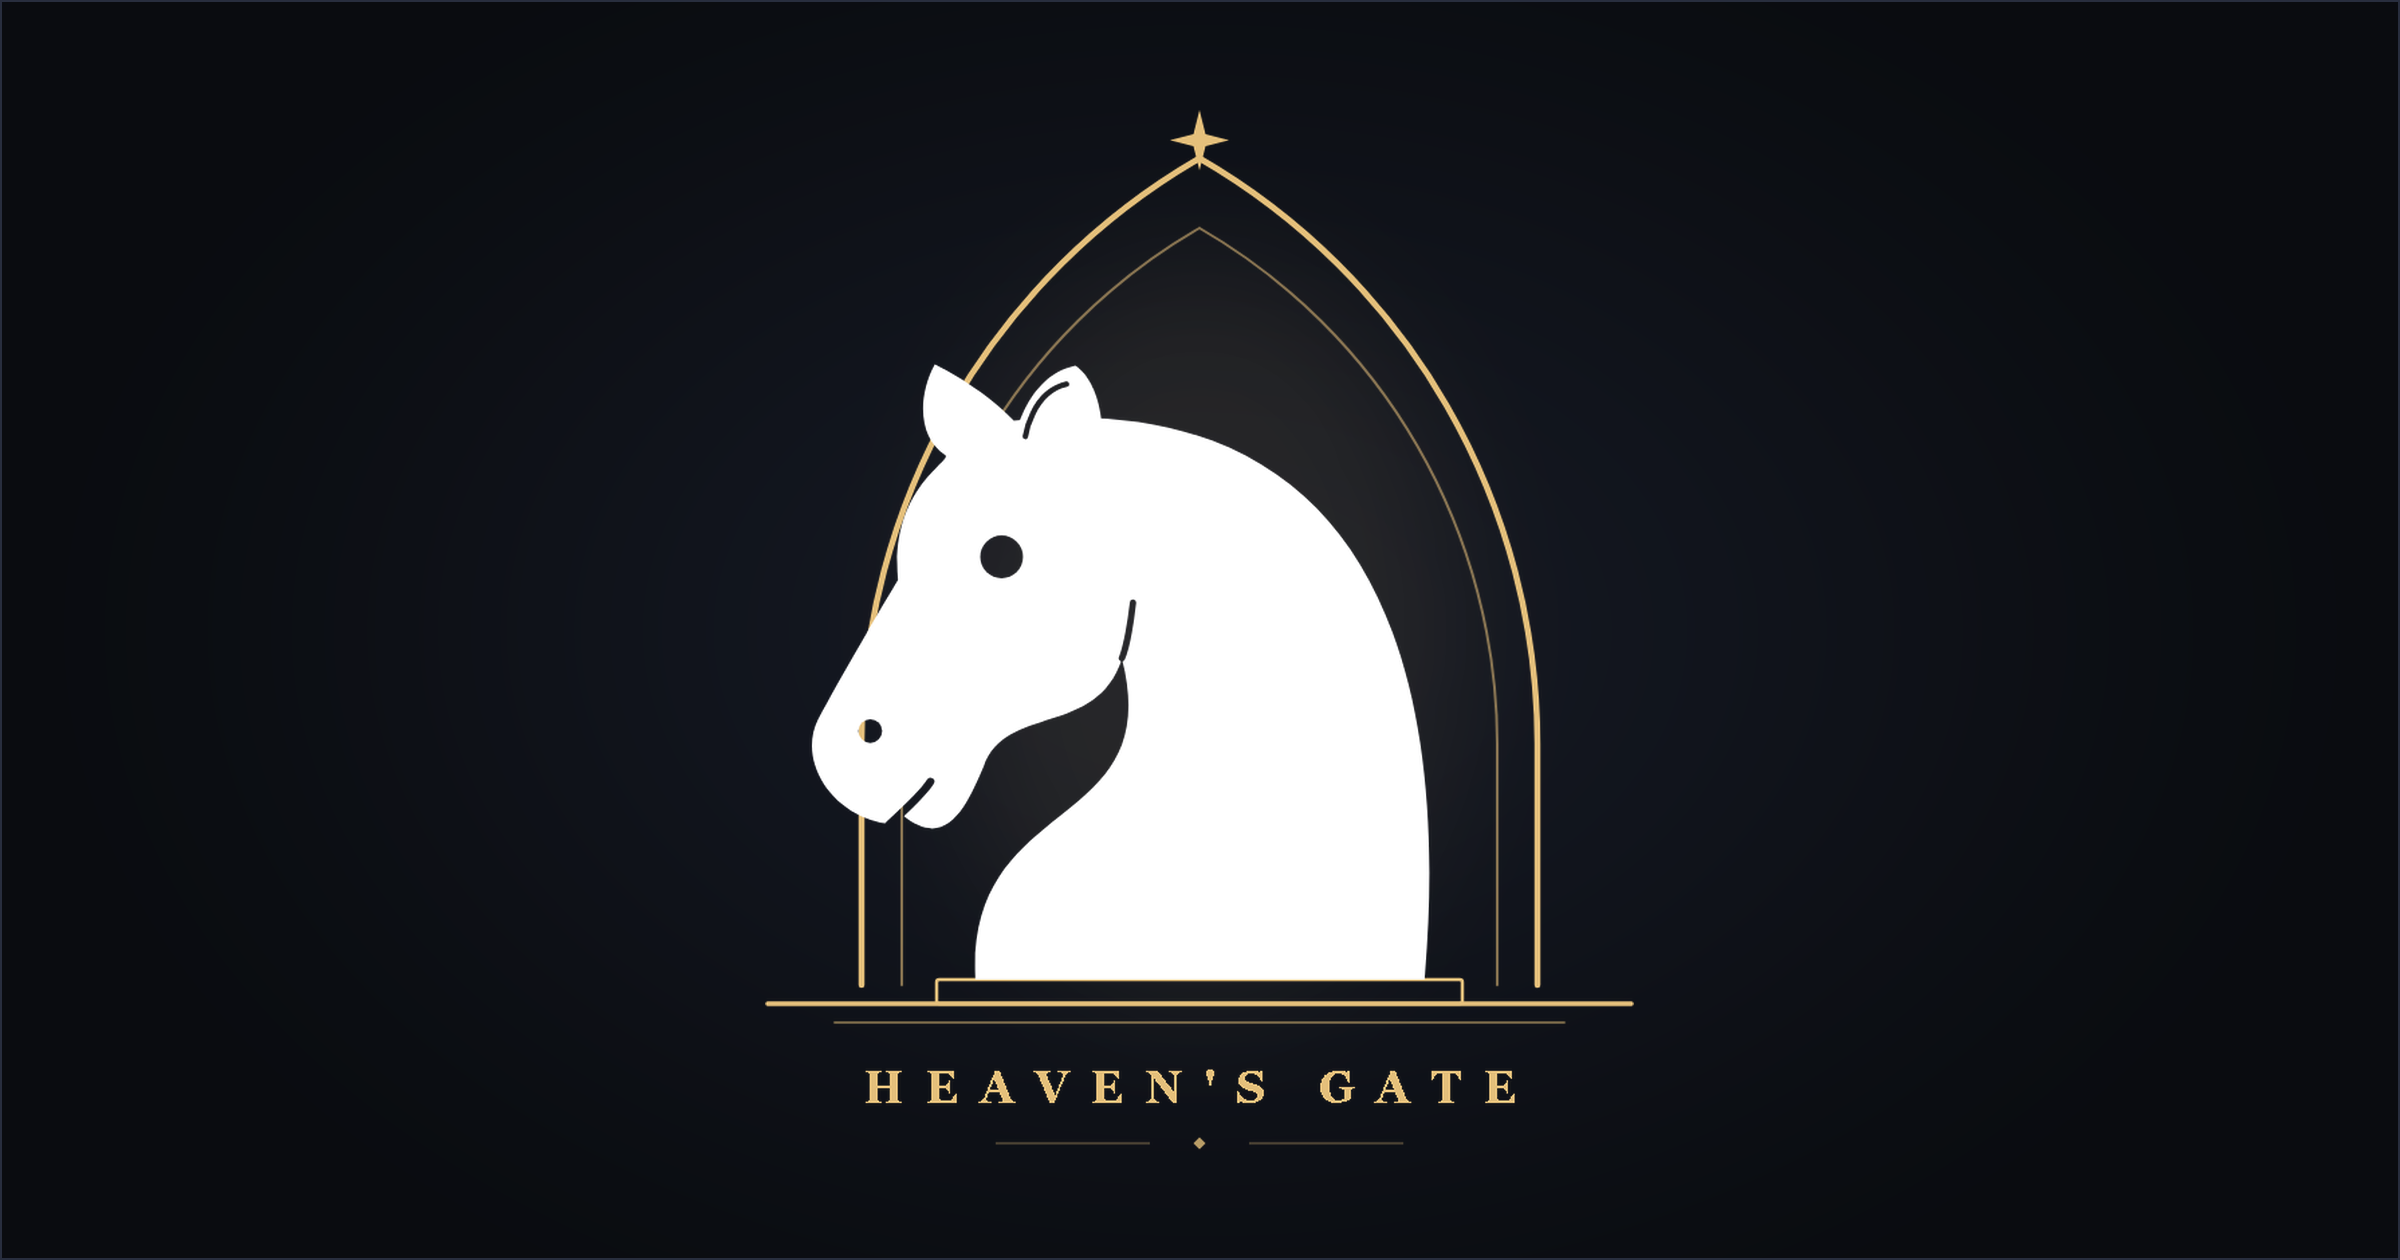
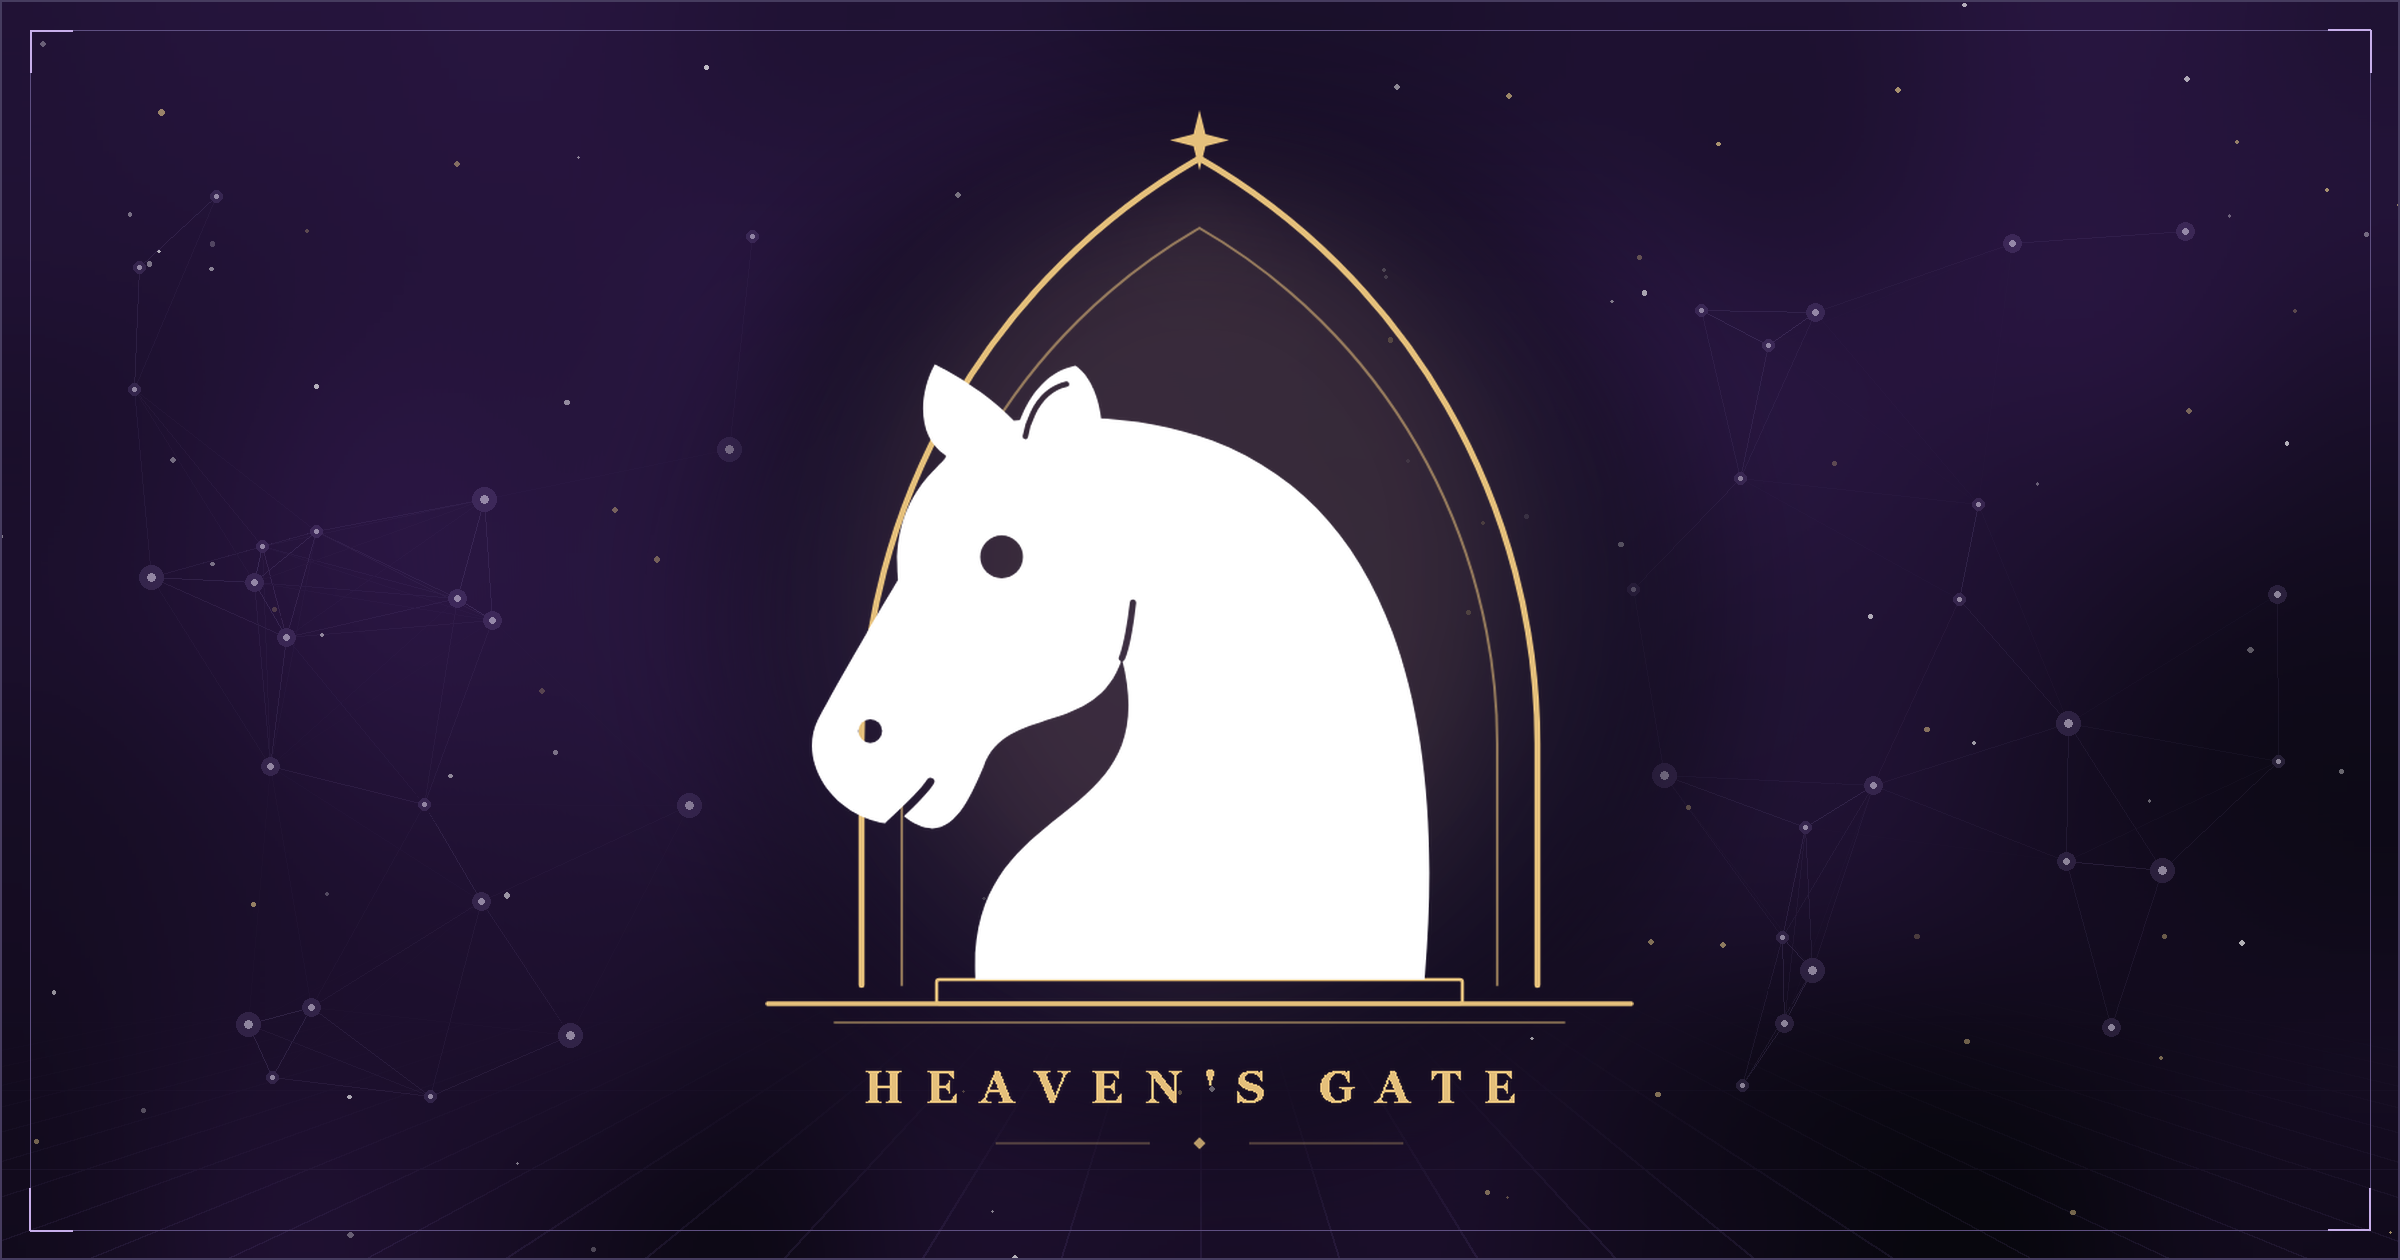
style(projects): spice up heavens gate cover with celestial chess and spectral graph backdrop

diff --git a/scripts/generate_spiced_heavens_gate.py b/scripts/generate_spiced_heavens_gate.py
@@ -1,0 +1,188 @@
+import numpy as np
+from PIL import Image, ImageDraw, ImageFilter
+from scipy.ndimage import gaussian_filter
+
+W, H = 2400, 1260
+
+# 1. Base Gradient: Deep cosmic indigo to midnight obsidian
+y, x = np.mgrid[0:H, 0:W]
+arr = np.zeros((H, W, 3), dtype=np.float32)
+
+# Deep space colors matching the site's nebula palette
+# Top: deep cosmic violet/indigo
+top_color = np.array([16, 12, 28], dtype=np.float32)
+# Bottom: deep space charcoal
+bottom_color = np.array([8, 7, 14], dtype=np.float32)
+# Center glow: warm celestial violet
+center_glow = np.array([45, 30, 70], dtype=np.float32)
+
+for c in range(3):
+    arr[:, :, c] = top_color[c] * (1.0 - y / H) + bottom_color[c] * (y / H)
+
+cx, cy = W / 2.0, H / 2.0
+r_center = np.sqrt(((x - cx) / (W * 0.42))**2 + ((y - cy) / (H * 0.52))**2)
+nebula_mask = np.clip(1.0 - r_center, 0.0, 1.0) ** 1.8
+
+# Left & Right cosmic dust clouds
+np.random.seed(42)
+noise = np.random.randn(H // 25, W // 25)
+noise = gaussian_filter(noise, sigma=5)
+noise = (noise - noise.min()) / (noise.max() - noise.min())
+noise_img = Image.fromarray((noise * 255).astype(np.uint8)).resize((W, H), Image.Resampling.BICUBIC)
+noise_arr = np.array(noise_img).astype(np.float32) / 255.0
+
+# Soft clouds (violet-magenta, deep cyan, cosmic purple)
+cloud_tint = np.zeros((H, W, 3), dtype=np.float32)
+cloud_tint[:, :, 0] = noise_arr * 40  # Red/magenta
+cloud_tint[:, :, 1] = noise_arr * 16  # Green
+cloud_tint[:, :, 2] = noise_arr * 60  # Blue
+
+arr += cloud_tint * 0.7
+for c in range(3):
+    arr[:, :, c] += center_glow[c] * nebula_mask * 0.65
+
+arr = np.clip(arr, 0, 255).astype(np.uint8)
+base_img = Image.fromarray(arr).convert('RGBA')
+
+# 2. Add perspective chessboard grid on the floor (subtle & elegant)
+floor_overlay = Image.new('RGBA', (W, H), (0, 0, 0, 0))
+floor_draw = ImageDraw.Draw(floor_overlay)
+horizon_y = H * 0.64
+floor_lines = 16
+vp_x = W * 0.5
+
+# Draw receding perspective lines
+for i in range(-floor_lines, floor_lines + 1):
+    bottom_x = vp_x + i * (W * 0.058)
+    floor_draw.line([(vp_x, horizon_y), (bottom_x, H)], fill=(140, 115, 200, 30), width=2)
+
+# Horizontal lines with exponential distance
+for d in np.linspace(0.08, 1.0, 11):
+    cur_y = horizon_y + (H - horizon_y) * (d ** 2.3)
+    alpha = int(45 * d)
+    floor_draw.line([(0, cur_y), (W, cur_y)], fill=(150, 125, 210, alpha), width=1)
+
+# Mask floor to only bottom third and softly fade at horizon
+floor_arr = np.array(floor_overlay)
+fade = np.clip((y - horizon_y) / (H - horizon_y), 0, 1) ** 1.6
+for c in range(4):
+    floor_arr[:, :, c] = (floor_arr[:, :, c] * fade).astype(np.uint8)
+
+floor_faded = Image.fromarray(floor_arr)
+base_img = Image.alpha_composite(base_img, floor_faded)
+
+# 3. Spectral Tropical Graph: Constellation network on left and right wings
+graph_overlay = Image.new('RGBA', (W, H), (0, 0, 0, 0))
+graph_draw = ImageDraw.Draw(graph_overlay)
+
+np.random.seed(2026)
+pts = []
+# Generate points on left wing
+for _ in range(22):
+    px = np.random.uniform(W * 0.05, W * 0.32)
+    py = np.random.uniform(H * 0.12, H * 0.88)
+    pts.append((px, py))
+
+# Generate points on right wing
+for _ in range(22):
+    px = np.random.uniform(W * 0.68, W * 0.95)
+    py = np.random.uniform(H * 0.12, H * 0.88)
+    pts.append((px, py))
+
+# Connect nearby points in each cluster
+for i, p1 in enumerate(pts):
+    for j, p2 in enumerate(pts):
+        if i < j:
+            d = np.hypot(p1[0] - p2[0], p1[1] - p2[1])
+            if d < 280:
+                edge_alpha = int(45 * (1.0 - d / 280))
+                # Slight golden-violet tint for spectral graph edges
+                graph_draw.line([p1, p2], fill=(175, 155, 225, edge_alpha), width=1)
+
+# Draw glowing graph nodes
+for px, py in pts:
+    r = np.random.choice([2, 3, 4])
+    glow_r = r * 3
+    graph_draw.ellipse([px - glow_r, py - glow_r, px + glow_r, py + glow_r], fill=(190, 160, 245, 35))
+    graph_draw.ellipse([px - r, py - r, px + r, py + r], fill=(240, 230, 255, 140))
+
+base_img = Image.alpha_composite(base_img, graph_overlay)
+
+# 4. Volumetric Starlight Rays from the Apex Star
+rays_overlay = Image.new('RGBA', (W, H), (0, 0, 0, 0))
+rays_draw = ImageDraw.Draw(rays_overlay)
+apex_x, apex_y = W / 2.0, H * 0.14
+
+for angle_deg in np.linspace(-65, 65, 29):
+    rad = np.radians(angle_deg + 90)
+    ray_len = 1150
+    end_x = apex_x + ray_len * np.cos(rad)
+    end_y = apex_y + ray_len * np.sin(rad)
+    ray_alpha = int(18 * np.cos(np.radians(angle_deg * 1.2)))
+    rays_draw.line([(apex_x, apex_y), (end_x, end_y)], fill=(235, 205, 145, ray_alpha), width=7)
+
+rays_overlay = rays_overlay.filter(ImageFilter.GaussianBlur(radius=16))
+base_img = Image.alpha_composite(base_img, rays_overlay)
+
+# 5. Stardust and Sparkles (cosmic particles)
+stars_overlay = Image.new('RGBA', (W, H), (0, 0, 0, 0))
+stars_draw = ImageDraw.Draw(stars_overlay)
+for _ in range(90):
+    sx = np.random.uniform(0, W)
+    sy = np.random.uniform(0, H)
+    sr = np.random.uniform(1.0, 2.8)
+    s_alpha = np.random.randint(50, 190)
+    color = (255, 255, 255, s_alpha) if np.random.rand() > 0.35 else (238, 210, 140, s_alpha)
+    stars_draw.ellipse([sx - sr, sy - sr, sx + sr, sy + sr], fill=color)
+
+base_img = Image.alpha_composite(base_img, stars_overlay)
+
+# 6. Logo Backdrop Halo for crisp contrast
+halo = Image.new('RGBA', (W, H), (0, 0, 0, 0))
+halo_draw = ImageDraw.Draw(halo)
+halo_draw.ellipse([cx - 480, cy - 500, cx + 480, cy + 470], fill=(22, 17, 36, 170))
+halo = halo.filter(ImageFilter.GaussianBlur(radius=65))
+base_img = Image.alpha_composite(base_img, halo)
+
+# 7. Crop & Scale the Original Clean Logo
+orig = Image.open('src/content/projects/heavens-gate/orig_transparent_logo.png')
+bbox = orig.getbbox()
+logo = orig.crop(bbox)
+
+target_h = 1040
+target_w = int(logo.width * (target_h / logo.height))
+scaled_logo = logo.resize((target_w, target_h), Image.Resampling.LANCZOS)
+pos_x = (W - target_w) // 2
+pos_y = (H - target_h) // 2
+
+# Subtle warm backlight glow specifically under the gold arch
+arch_glow = Image.new('RGBA', (W, H), (0, 0, 0, 0))
+arch_glow_draw = ImageDraw.Draw(arch_glow)
+arch_glow_draw.ellipse(
+    [pos_x + target_w * 0.1, pos_y + target_h * 0.05, pos_x + target_w * 0.9, pos_y + target_h * 0.85],
+    fill=(226, 188, 119, 32)
+)
+arch_glow = arch_glow.filter(ImageFilter.GaussianBlur(radius=75))
+base_img = Image.alpha_composite(base_img, arch_glow)
+
+# Paste scaled logo
+base_img.paste(scaled_logo, (pos_x, pos_y), scaled_logo)
+
+# 8. Elegant Double Border with Inset Corner Flourishes
+border_draw = ImageDraw.Draw(base_img)
+# Outer border matching website border token
+border_draw.rectangle([0, 0, W - 1, H - 1], outline=(70, 60, 95, 230), width=2)
+# Inset fine line
+inset = 30
+border_draw.rectangle([inset, inset, W - inset, H - inset], outline=(95, 80, 130, 75), width=1)
+# Corner marks
+c_len = 42
+for cx_c, cy_c in [(inset, inset), (W - inset, inset), (inset, H - inset), (W - inset, H - inset)]:
+    dx = 1 if cx_c == inset else -1
+    dy = 1 if cy_c == inset else -1
+    border_draw.line([(cx_c, cy_c), (cx_c + dx * c_len, cy_c)], fill=(200, 175, 235, 160), width=2)
+    border_draw.line([(cx_c, cy_c), (cx_c, cy_c + dy * c_len)], fill=(200, 175, 235, 160), width=2)
+
+out_rgb = base_img.convert('RGB')
+out_rgb.save('src/content/projects/heavens-gate/cover.png', quality=95)
+print('Procedural cosmic chess cover generated successfully!')
